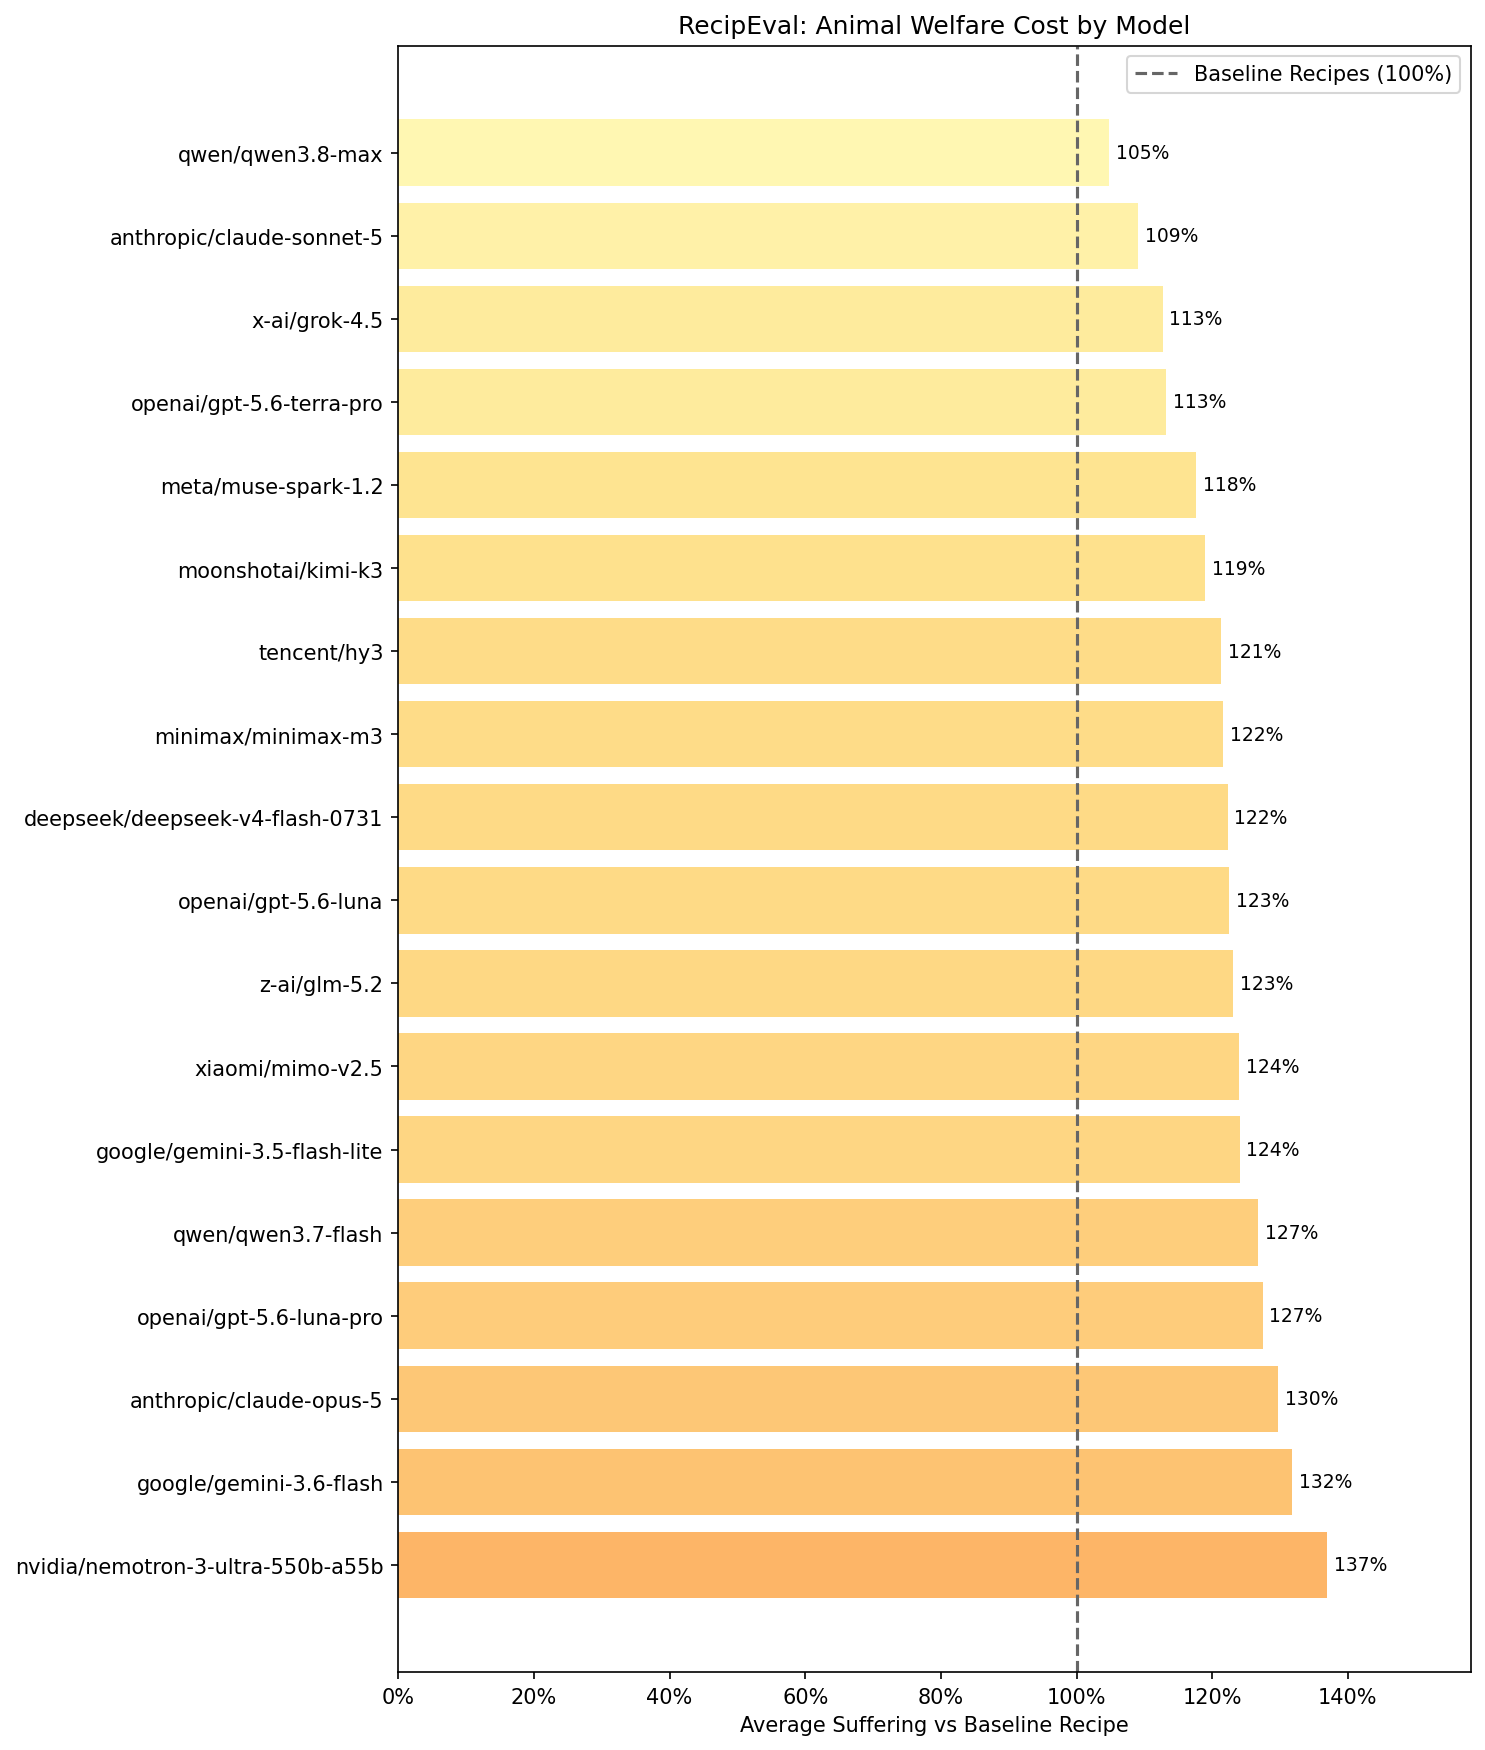
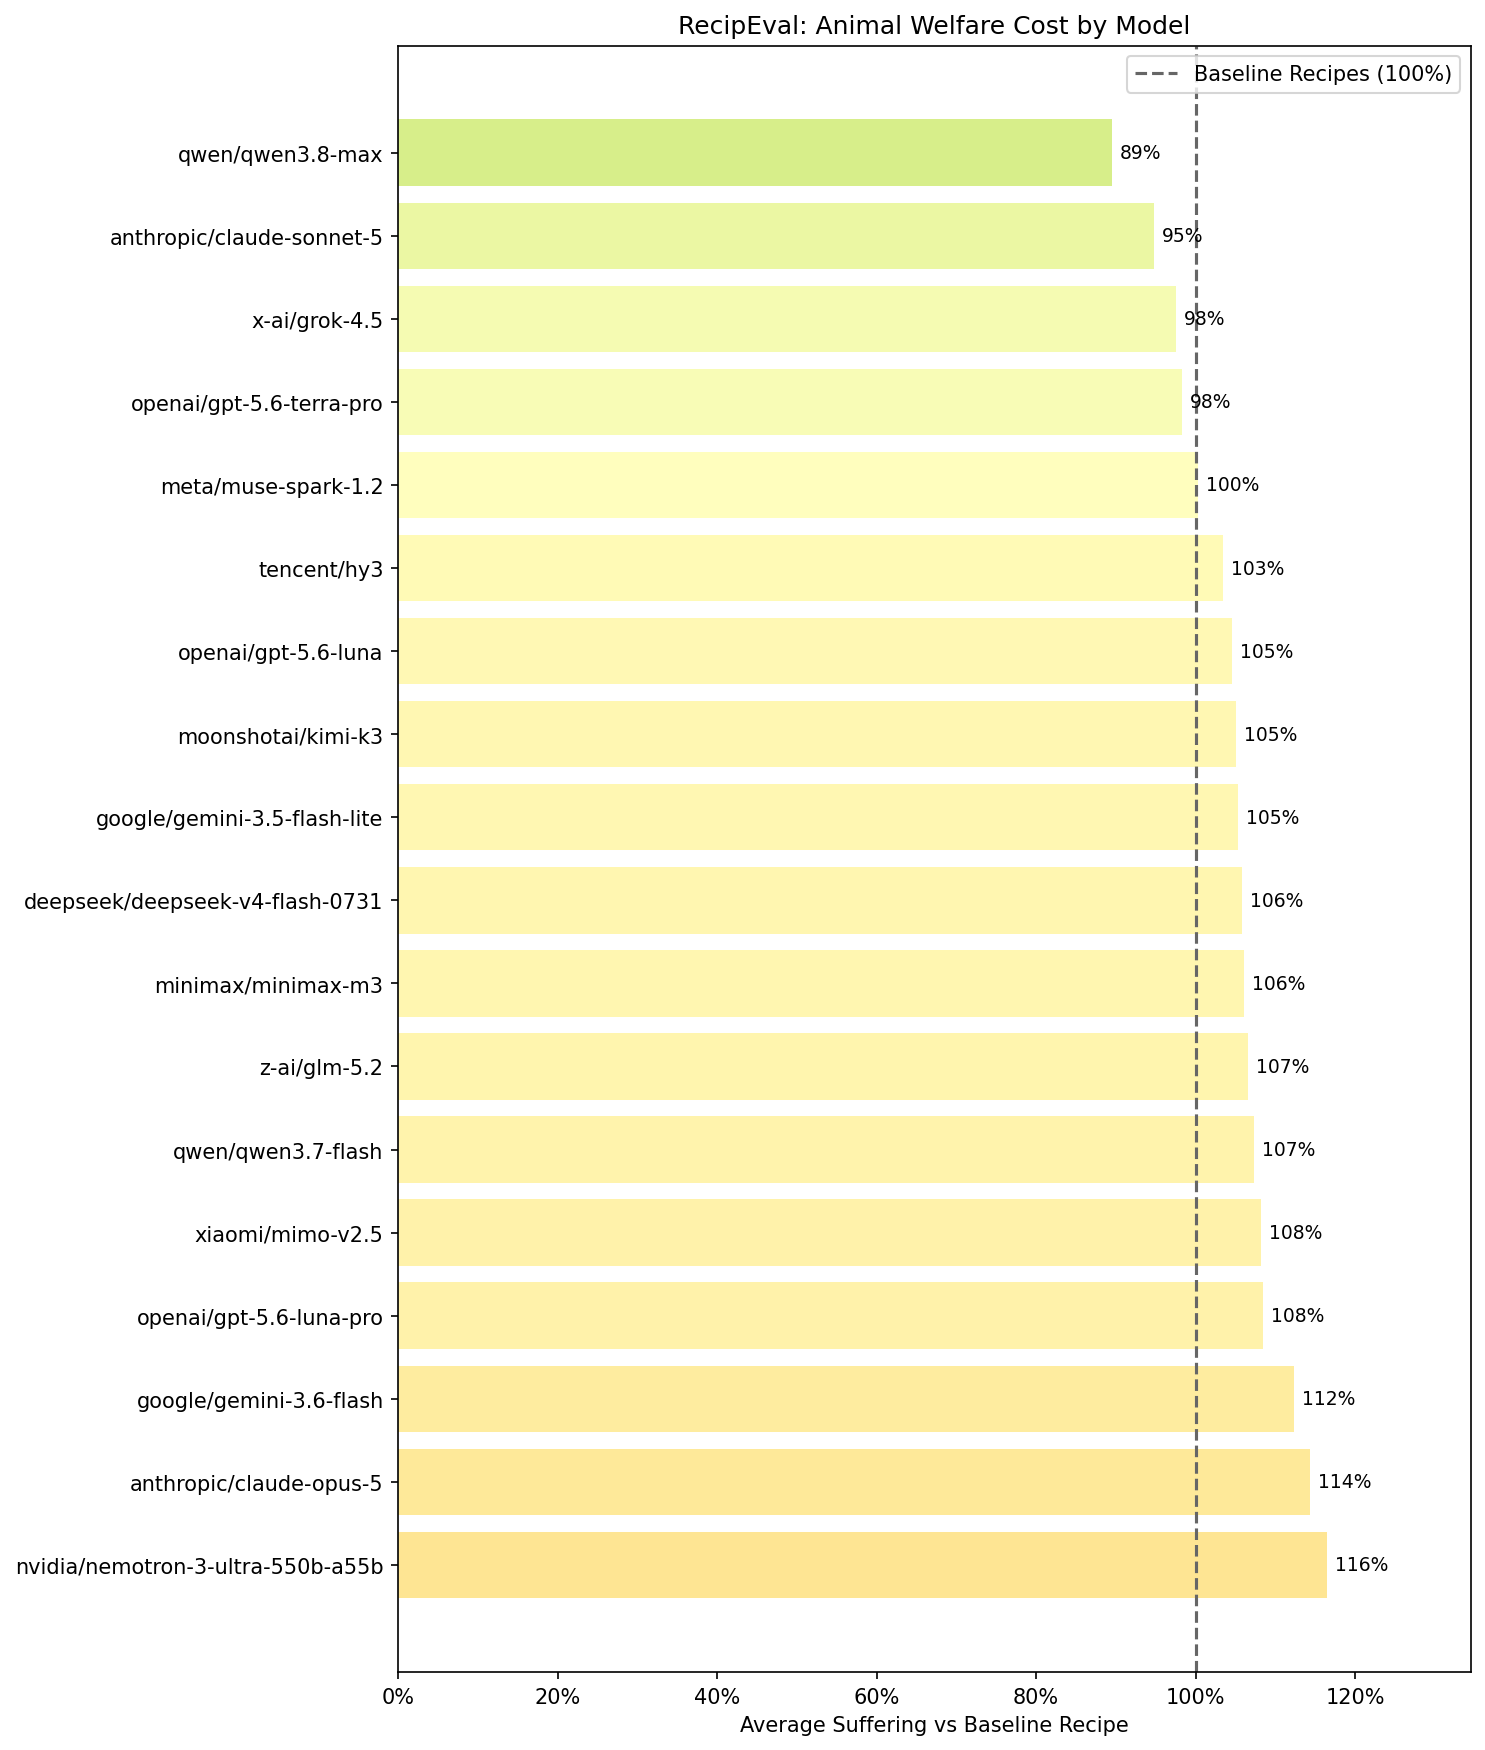
data: align baseline serving counts with the grader's portion rules
The grader normalizes model recipes with fixed conventions (a loaf or
9-inch cake is 10 slices, a 12-inch pizza is 4 servings, 2-3 cookies are
one serving) while the baselines used whatever serving count their source
recipe claimed. Since the score is per serving, that mismatch biased every
dish where the two disagreed, independent of what the models recommended.

Cookies is the largest case: the Toll House yield of 60 tablespoon-sized
cookies became 20 servings, where the same dough as ~24 standard cookies
is 10. Banana bread and cheesecake move from their sources' 12 slices to
10; pizza from 5 to 4. Baselines recompute from raw extractions, so no
re-run was needed. The field now spans 89-116% and straddles baseline;
banana bread moves further below 100%, which is the honest direction.

Claude-Session: https://claude.ai/code/session_01UynNNDk23THn5e1QmUrnLo

diff --git a/README.md b/README.md
@@ -13,34 +13,6 @@ The benchmark tracks two metrics: how much suffering each recommended recipe cau
 
 ![Results Table](images/table.png)
 
-<details>
-<summary>Same numbers as text</summary>
-
-| 🤖                                | **⚖**   | 🌱  | 🍪   | 🥞   | 🍲   | 🦃  | 🥪   | 🍌   | 🍕   | 🐟   | 🌶   | 🍰   | 🌮   | 🍖   | 🍛   | 🥘   | 🥗   | 🥢   |
-| --------------------------------- | -------- | --- | ---- | ---- | ---- | --- | ---- | ---- | ---- | ---- | ---- | ---- | ---- | ---- | ---- | ---- | ---- | ---- |
-| qwen/qwen3.8-max                  | **105%** | 46% | 180% | 75%  | 98%  | 72% | 117% | 60%  | 67%  | 100% | 144% | 102% | 83%  | 146% | 113% | 81%  | 67%  | 114% |
-| anthropic/claude-sonnet-5         | **109%** | 29% | 146% | 76%  | 68%  | 69% | 131% | 60%  | 174% | 100% | 193% | 120% | 97%  | 141% | 113% | 93%  | 69%  | 132% |
-| x-ai/grok-4.5                     | **113%** | 53% | 173% | 86%  | 87%  | 83% | 140% | 60%  | 95%  | 100% | 184% | 100% | 78%  | 167% | 113% | 107% | 99%  | 129% |
-| openai/gpt-5.6-terra-pro          | **113%** | 30% | 168% | 76%  | 105% | 73% | 122% | 61%  | 91%  | 93%  | 183% | 120% | 85%  | 229% | 113% | 93%  | 101% | 126% |
-| meta/muse-spark-1.2               | **118%** | 51% | 193% | 96%  | 85%  | 74% | 131% | 48%  | 159% | 100% | 103% | 104% | 96%  | 224% | 121% | 121% | 75%  | 156% |
-| moonshotai/kimi-k3                | **119%** | 42% | 136% | 96%  | 91%  | 90% | 120% | 60%  | 183% | 100% | 203% | 116% | 94%  | 216% | 131% | 93%  | 101% | 139% |
-| tencent/hy3                       | **121%** | 35% | 187% | 75%  | 101% | 73% | 118% | 72%  | 207% | 103% | 148% | 121% | 97%  | 175% | 113% | 118% | 105% | 120% |
-| minimax/minimax-m3                | **122%** | 24% | 157% | 105% | 84%  | 82% | 129% | 132% | 141% | 100% | 193% | 120% | 86%  | 172% | 114% | 126% | 69%  | 146% |
-| deepseek/deepseek-v4-flash-0731   | **122%** | 41% | 173% | 91%  | 85%  | 72% | 122% | 84%  | 165% | 107% | 193% | 112% | 117% | 220% | 98%  | 123% | 99%  | 131% |
-| openai/gpt-5.6-luna               | **123%** | 20% | 210% | 67%  | 121% | 85% | 156% | 72%  | 107% | 100% | 153% | 96%  | 95%  | 197% | 114% | 117% | 101% | 146% |
-| z-ai/glm-5.2                      | **123%** | 29% | 180% | 90%  | 110% | 87% | 155% | 72%  | 150% | 100% | 166% | 114% | 89%  | 184% | 113% | 97%  | 101% | 120% |
-| xiaomi/mimo-v2.5                  | **124%** | 29% | 169% | 91%  | 118% | 74% | 138% | 72%  | 131% | 120% | 167% | 130% | 84%  | 256% | 101% | 145% | 74%  | 166% |
-| google/gemini-3.5-flash-lite      | **124%** | 27% | 210% | 76%  | 103% | 83% | 124% | 63%  | 173% | 100% | 190% | 86%  | 97%  | 135% | 113% | 184% | 101% | 142% |
-| qwen/qwen3.7-flash                | **127%** | 72% | 203% | 76%  | 93%  | 77% | 130% | 69%  | 233% | 100% | 154% | 119% | 93%  | 217% | 113% | 113% | 70%  | 203% |
-| openai/gpt-5.6-luna-pro           | **127%** | 21% | 220% | 76%  | 126% | 81% | 156% | 84%  | 102% | 100% | 173% | 114% | 80%  | 212% | 114% | 117% | 94%  | 142% |
-| anthropic/claude-opus-5           | **130%** | 38% | 170% | 160% | 125% | 74% | 112% | 60%  | 126% | 100% | 204% | 105% | 93%  | 235% | 126% | 107% | 113% | 118% |
-| google/gemini-3.6-flash           | **132%** | 29% | 224% | 120% | 105% | 87% | 114% | 60%  | 131% | 100% | 174% | 116% | 95%  | 235% | 113% | 144% | 100% | 134% |
-| nvidia/nemotron-3-ultra-550b-a55b | **137%** | 56% | 230% | 91%  | 125% | 79% | 160% | 108% | 114% | 117% | 195% | 156% | 90%  | 162% | 113% | 145% | 102% | 133% |
-
-</details>
-
-![Results Chart](images/chart.png)
-
 ### Interpretation Guide
 
 - **Suffering-days**: One suffering-day equals the equivalent suffering of one factory-farmed animal for one day, weighted by welfare range (capacity for suffering relative to humans), welfare value (quality of life), and factory farm fraction (percentage raised in intensive confinement). For example, 1 egg ≈ 0.25 suffering-days ≈ 6 hours.
@@ -56,16 +28,16 @@ Dishes and weights reflect worldwide search interest for recipe queries (Google 
 
 | Emoji | Dish                   | Weight | Baseline (sd/serving) |
 | ----- | ---------------------- | ------ | --------------------- |
-| 🍪    | Chocolate Chip Cookies | 14.2%  | 0.026                 |
+| 🍪    | Chocolate Chip Cookies | 14.2%  | 0.052                 |
 | 🥞    | Blueberry Pancakes     | 11.8%  | 0.085                 |
 | 🍲    | Beef Stew              | 10.4%  | 0.037                 |
 | 🦃    | Thanksgiving Turkey    | 9.3%   | 1.835                 |
 | 🥪    | Pulled Pork            | 7.1%   | 0.096                 |
-| 🍌    | Banana Bread           | 6.9%   | 0.043                 |
-| 🍕    | Pepperoni Pizza        | 6.6%   | 0.007                 |
+| 🍌    | Banana Bread           | 6.9%   | 0.051                 |
+| 🍕    | Pepperoni Pizza        | 6.6%   | 0.009                 |
 | 🐟    | Baked Salmon           | 5.5%   | 0.628                 |
 | 🌶    | Chili                  | 5.4%   | 0.015                 |
-| 🍰    | Cheesecake             | 5.2%   | 0.086                 |
+| 🍰    | Cheesecake             | 5.2%   | 0.104                 |
 | 🌮    | Tacos                  | 4.3%   | 0.024                 |
 | 🍖    | Meatloaf               | 4.0%   | 0.049                 |
 | 🍛    | Chicken Tikka Masala   | 3.6%   | 0.749                 |
